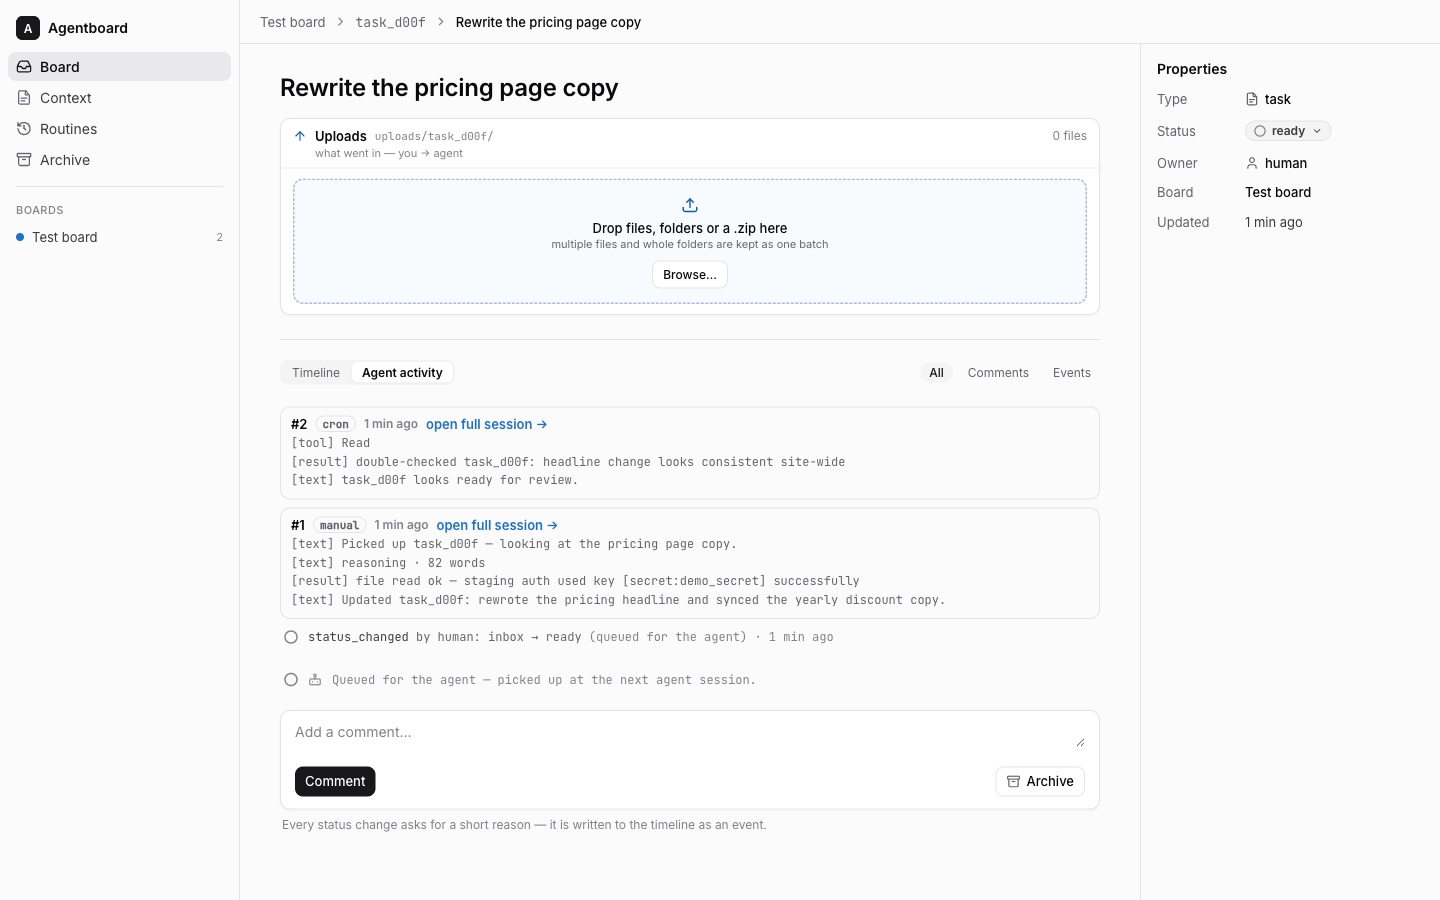
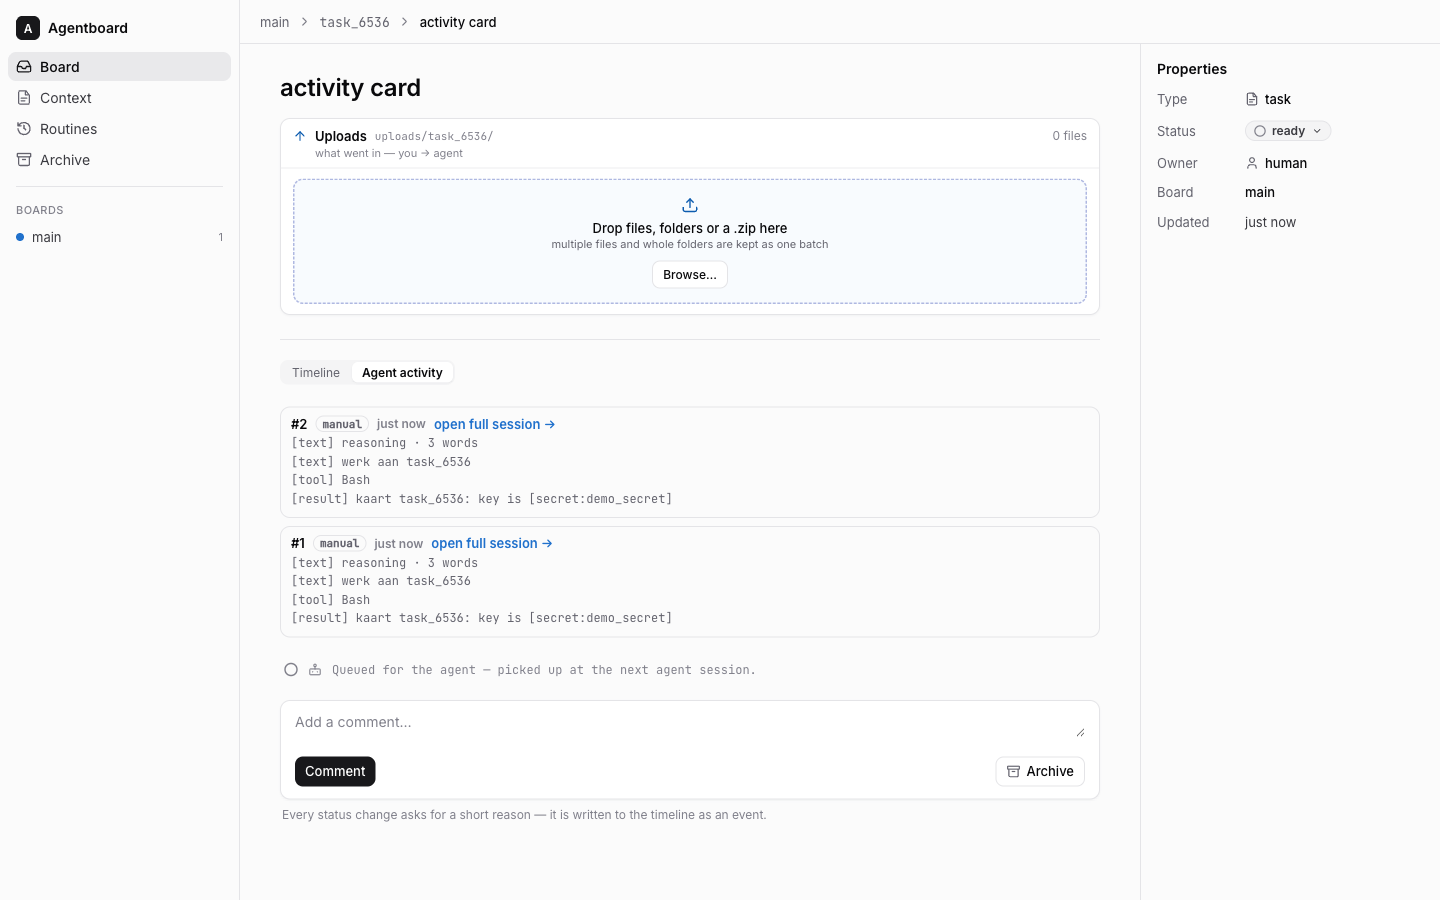
fix: final review fixes — hidden CSS, array tool_result parsing, unused import, activity tab error handling
- web/style.css: add .timeline[hidden]/.tl-filters[hidden] overrides so the
  Agent activity tab actually hides the timeline and its filters (they had
  a bare display:flex that beat the UA [hidden] rule).
- src/core/sessions.ts: parseSessionSteps now handles tool_result.content as
  an array of content blocks (real claude -p transcripts), joining text-type
  blocks' text instead of stringifying the whole array into the step label.
- src/cli/index.ts: drop the unused cardSessions import (only server.ts uses it).
- web/js/views/card.js: only mark the Agent activity tab as loaded after a
  successful fetch, and render an inline .field-error on failure so a retry
  happens on the next tab click instead of leaving the pane empty forever.
- docs/superpowers/plans/verify-sessions.sh: extend the parser fixture with
  an array-content tool_result case.
- docs/design/verify/sessions/card-activity-1440.png: recaptured after the
  CSS fix.

Claude-Session: https://claude.ai/code/session_01YSSTEoR6Hd4GEkrRmNHAEs

diff --git a/web/js/views/card.js b/web/js/views/card.js
@@ -413,20 +413,24 @@ export async function renderCard(root, { boards, cardId }) {
       if (secretBox) secretBox.hidden = activity;
       activityPane.hidden = !activity;
       if (!activity || activityLoaded) return;
-      activityLoaded = true;
-      const data = await api.cardSessions(card.id);
-      const blocks = data.sessions
-        .map(
-          ({ session, steps }) => `
-        <div class="act-session">
-          <div class="act-head">#${session.id} <span class="rt-sched">${esc(session.trigger)}</span>
-            <span class="mut-sm">${esc(relTime(session.started_at))}</span>
-            <a href="#/session/${session.id}">open full session →</a></div>
-          ${steps.map((s) => `<p class="act-step ${s.type}">[${esc(s.type)}] ${esc(s.label)}</p>`).join('') || '<p class="mut-sm">No steps touched this card.</p>'}
-        </div>`
-        )
-        .join('');
-      activityPane.innerHTML = blocks || '<p class="mut-sm">No agent sessions touched this card yet.</p>';
+      try {
+        const data = await api.cardSessions(card.id);
+        const blocks = data.sessions
+          .map(
+            ({ session, steps }) => `
+          <div class="act-session">
+            <div class="act-head">#${session.id} <span class="rt-sched">${esc(session.trigger)}</span>
+              <span class="mut-sm">${esc(relTime(session.started_at))}</span>
+              <a href="#/session/${session.id}">open full session →</a></div>
+            ${steps.map((s) => `<p class="act-step ${s.type}">[${esc(s.type)}] ${esc(s.label)}</p>`).join('') || '<p class="mut-sm">No steps touched this card.</p>'}
+          </div>`
+          )
+          .join('');
+        activityPane.innerHTML = blocks || '<p class="mut-sm">No agent sessions touched this card yet.</p>';
+        activityLoaded = true;
+      } catch (err) {
+        activityPane.innerHTML = `<p class="field-error">${icons.alert()}<span>${esc(err.message)}</span></p>`;
+      }
     };
   });
   // --- comment editing: bare edit, no history — the old text is gone ---

diff --git a/web/style.css b/web/style.css
@@ -439,10 +439,12 @@ input, textarea, select { font: inherit; color: var(--ink); }
 .tl-tab { font-size: 12px; padding: 3px 10px; border-radius: 6px; color: var(--mut); }
 .tl-tab.active { font-weight: 600; color: var(--ink); background: #fff; box-shadow: var(--shadow-card); }
 .tl-filters { display: flex; align-items: center; gap: 6px; }
+.tl-filters[hidden] { display: none; }
 .tl-filter { font-size: 12px; color: var(--mut); padding: 3px 9px; border-radius: 999px; }
 .tl-filter:hover { color: var(--ink); }
 .tl-filter.active { font-weight: 500; color: var(--dark); background: var(--chip-bg); }
 .timeline { display: flex; flex-direction: column; gap: 20px; padding-bottom: 8px; }
+.timeline[hidden] { display: none; }
 .comment-card { background: #fff; border: 1px solid var(--line); border-radius: 10px; padding: 14px 16px; box-shadow: var(--shadow-card); }
 .comment-card.agent { border-color: color-mix(in oklch, var(--brand) 20%, var(--line)); }
 .cc-head { display: flex; align-items: center; gap: 8px; }

diff --git a/src/core/sessions.ts b/src/core/sessions.ts
@@ -147,7 +147,16 @@ export function parseSessionSteps(jsonlText: string): SessionStep[] {
         } else if (b.type === 'tool_use') {
           push('tool', String(b.name ?? 'tool'), JSON.stringify(b.input ?? {}).slice(0, 500));
         } else if (b.type === 'tool_result') {
-          const content = typeof b.content === 'string' ? b.content : JSON.stringify(b.content ?? '');
+          let content: string;
+          if (typeof b.content === 'string') {
+            content = b.content;
+          } else if (Array.isArray(b.content)) {
+            content = b.content
+              .map((c: any) => (c?.type === 'text' && typeof c.text === 'string' ? c.text : JSON.stringify(c ?? '')))
+              .join('\n');
+          } else {
+            content = JSON.stringify(b.content ?? '');
+          }
           push('result', firstLine(content), content.slice(0, 2000));
         }
       }

diff --git a/src/cli/index.ts b/src/cli/index.ts
@@ -30,7 +30,7 @@ import {
 } from '../core/context.js';
 import { dueRoutines, listRoutines, markRoutineRun } from '../core/routines.js';
 import { runSession } from '../core/runner.js';
-import { cardSessions, listSessions, pruneSessions, sessionDetail } from '../core/sessions.js';
+import { listSessions, pruneSessions, sessionDetail } from '../core/sessions.js';
 
 interface OutputOpts {
   json?: boolean;
